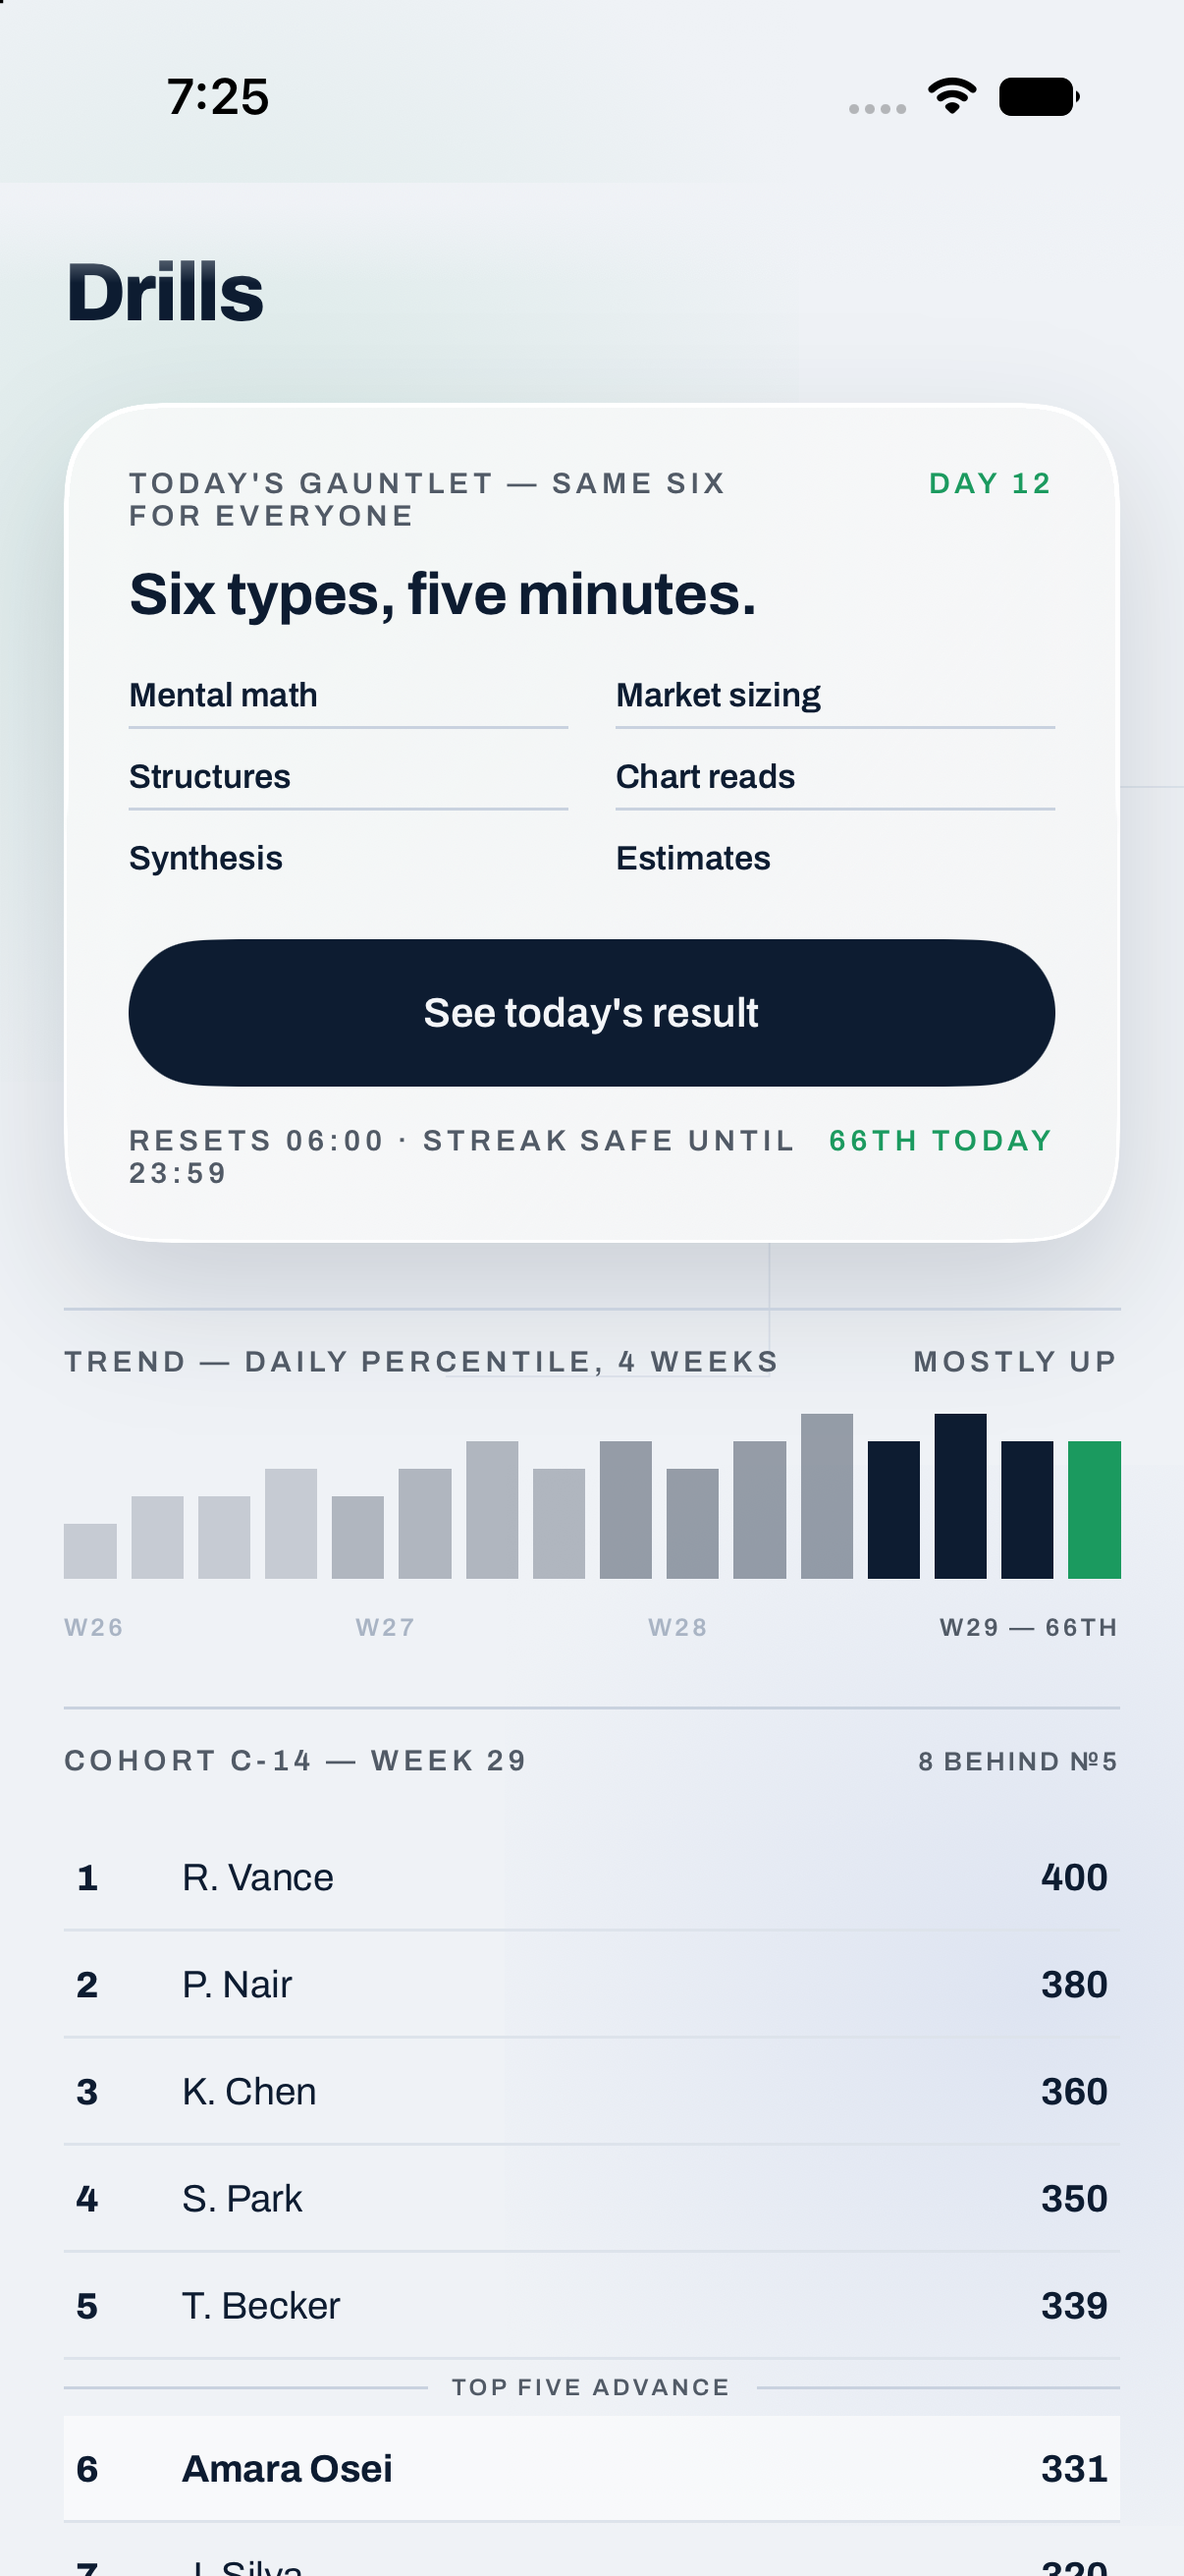
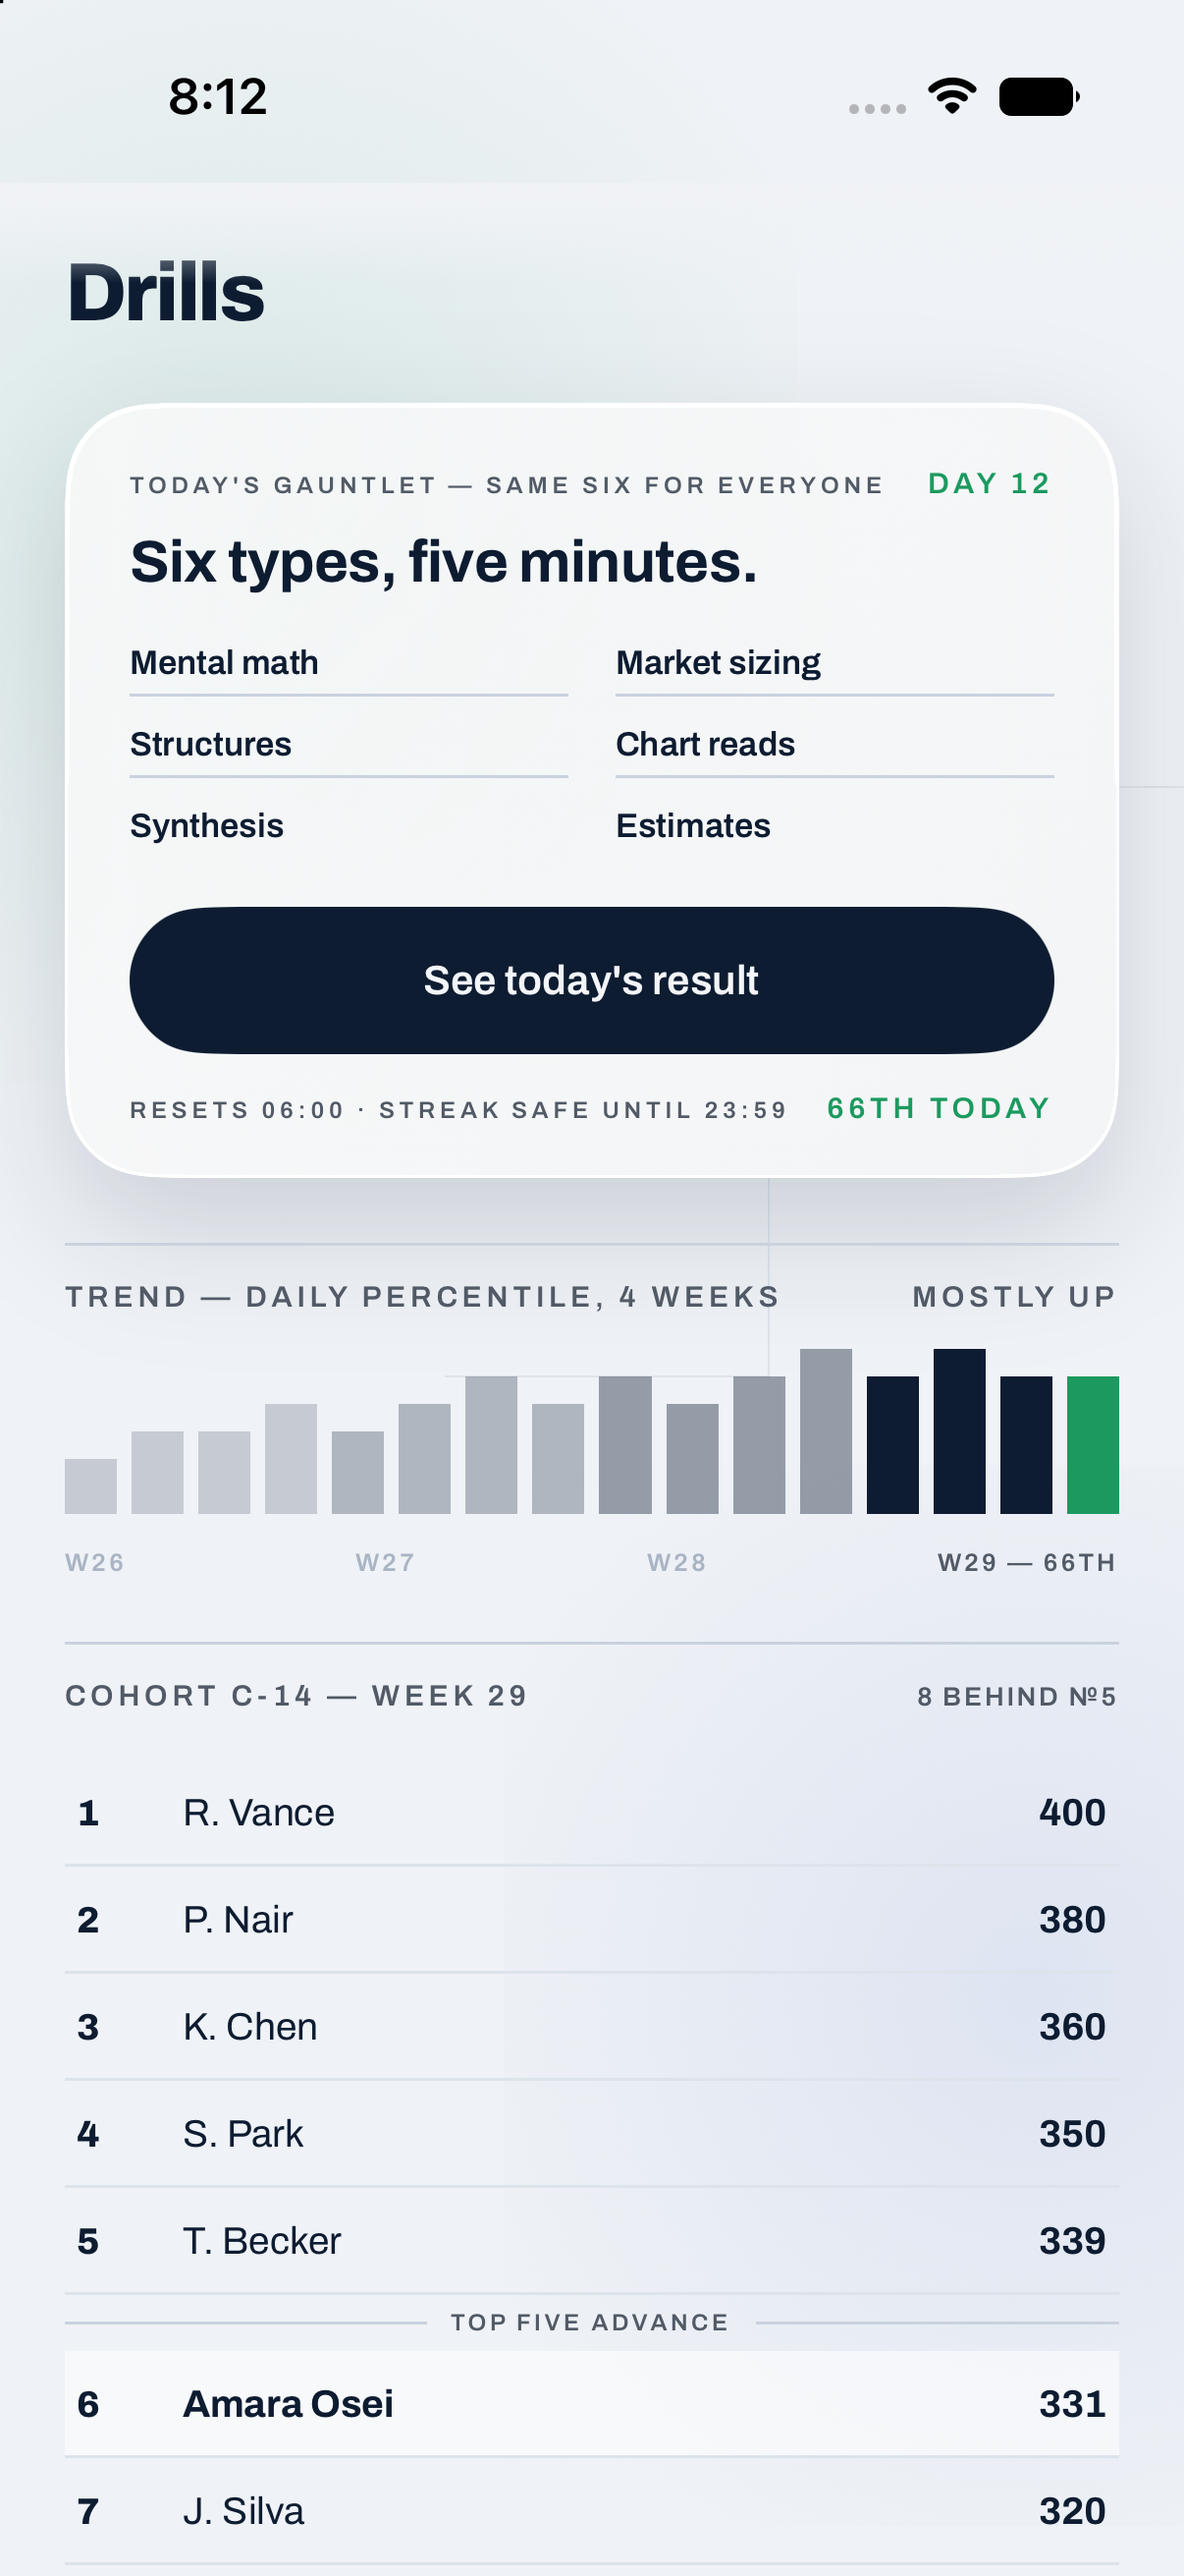
Fix Drills hub kicker one-line fit + board note guard + ordinal test edges

Changed region(s): [[0.0307, 0.1854, 0.9511, 1.0], [0.3682, 0.8959, 0.6136, 0.9268], [0.1534, 0.0309, 0.2148, 0.0618]]

diff --git a/ios/CaseRoom/State/DrillsViewModel.swift b/ios/CaseRoom/State/DrillsViewModel.swift
@@ -93,6 +93,9 @@ final class DrillsViewModel {
 
     private static let barCount = 16
 
+    /// Cold-start invariant: when `trends.daily` is empty, all 16 bars render
+    /// as faint left-pads with no green last bar — harmless (no data yet),
+    /// not an error state.
     var trendBars: [TrendBar] {
         let daily = trends?.daily ?? []
         let real = Array(daily.suffix(Self.barCount))
@@ -154,10 +157,11 @@ final class DrillsViewModel {
     // MARK: - Board (C-14, Task 2 ships the group scope; Task 3 adds the switcher)
 
     /// "{n} BEHIND №{rank-1}" derived from `result.group.pointsBehindNext`
-    /// once submitted; nil pre-submission or when the field isn't present
-    /// (I3 — never fabricated).
+    /// once submitted; nil pre-submission, when the field isn't present
+    /// (I3 — never fabricated), or at rank 1 (there is no №0 to be behind).
     var boardNote: String? {
-        guard submitted, let group = gauntlet?.result?.group, let behind = group.pointsBehindNext else { return nil }
+        guard submitted, let group = gauntlet?.result?.group, let behind = group.pointsBehindNext,
+              group.rank > 1 else { return nil }
         return "\(behind) BEHIND №\(group.rank - 1)"
     }
 

diff --git a/ios/CaseRoom/Views/DrillsView.swift b/ios/CaseRoom/Views/DrillsView.swift
@@ -73,6 +73,7 @@ struct DrillsView: View {
         VStack(alignment: .leading, spacing: 10) {
             HStack(alignment: .firstTextBaseline) {
                 Text("TODAY'S GAUNTLET — SAME SIX FOR EVERYONE").dsText(.kicker).foregroundStyle(palette.muted)
+                    .lineLimit(1).minimumScaleFactor(0.8)
                 Spacer()
                 Text("DAY \(viewModel.streakDay)").dsText(.kicker).tabularNumbers().foregroundStyle(palette.green)
             }
@@ -83,6 +84,7 @@ struct DrillsView: View {
             beginButton
             HStack(alignment: .firstTextBaseline) {
                 Text("RESETS 06:00 · STREAK SAFE UNTIL 23:59").dsText(.kicker).foregroundStyle(palette.muted)
+                    .lineLimit(1).minimumScaleFactor(0.8)
                 Spacer()
                 if let label = viewModel.hubPercentileLabel {
                     Text(label).dsText(.kicker).tabularNumbers().foregroundStyle(palette.green)

diff --git a/ios/CaseRoomTests/DrillsViewModelTests.swift b/ios/CaseRoomTests/DrillsViewModelTests.swift
@@ -92,6 +92,9 @@ final class DrillsViewModelTests: XCTestCase {
         XCTAssertEqual(DrillsViewModel.ordinal(2), "2ND")
         XCTAssertEqual(DrillsViewModel.ordinal(3), "3RD")
         XCTAssertEqual(DrillsViewModel.ordinal(11), "11TH")
+        XCTAssertEqual(DrillsViewModel.ordinal(12), "12TH")
+        XCTAssertEqual(DrillsViewModel.ordinal(13), "13TH")
+        XCTAssertEqual(DrillsViewModel.ordinal(21), "21ST")
         XCTAssertEqual(DrillsViewModel.ordinal(66), "66TH")
     }
 
